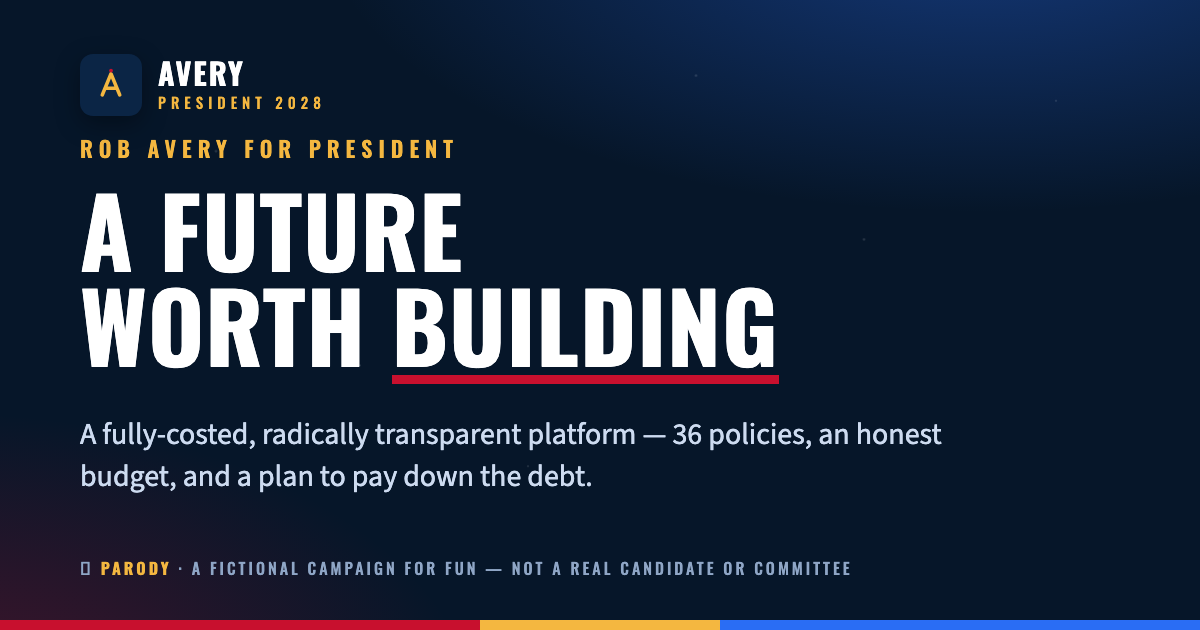
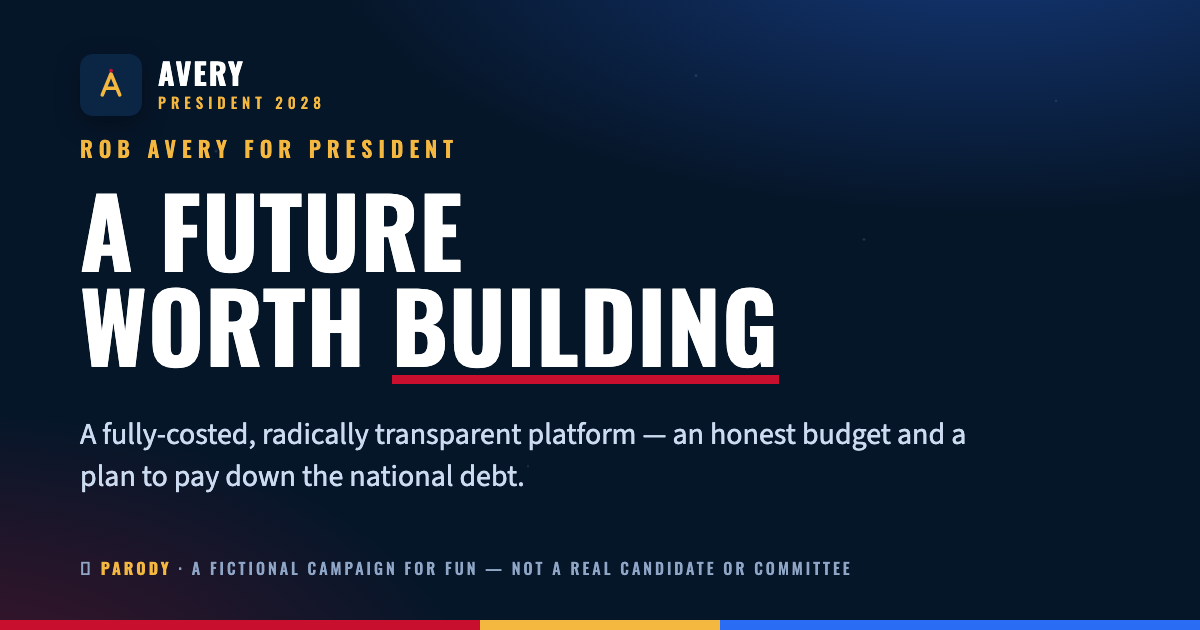
Add Waste & Recycling EPA policy; infra state-by-state delivery; de-number stale counts
- New policy: Refocus the EPA on Waste & Recycling — producer responsibility,
  reuse-before-recycle, working recycling/composting, right-to-repair, ocean
  cleanup. Neutral cost: program funded by producer-responsibility fees, so the
  +$278B surplus is unchanged. Now 37 policies.
- Infrastructure: add state-by-state coordination — federal funding & standards,
  state/local delivery, shared scoreboard.
- Fix stale hardcoded numbers: '23 policies' and a '+$0.6T' surplus on the home
  page (now +$278B), and de-number the meta/OG so counts can't drift again.

Changed region(s): [[0.0617, 0.7238, 0.4933, 0.7841], [0.555, 0.6635, 0.8017, 0.7238]]

diff --git a/data/policies.js b/data/policies.js
@@ -1201,6 +1201,7 @@ window.PLATFORM = {
       cost: 150, costType: "spend", costNote: "roads & bridges, water systems & lead pipes, transit & ports, climate resilience",
       lead: "Crumbling roads, century-old water pipes, and bottlenecked ports are a hidden tax on everyone. We rebuild the physical backbone of the country — fixing what's broken first, getting the lead out of the water, and building it to withstand the storms that are already here.",
       plan: [
+        { b: "Partner state by state.", t: "Work directly with each state to plan, coordinate, and manage projects — federal funding and standards, state and local delivery — so the money goes where each state actually needs it, not where Washington guesses from afar." },
         { b: "Fix what's broken.", t: "Repair the worst roads and bridges before chasing new ribbon-cuttings." },
         { b: "Get the lead out.", t: "Replace every lead water pipe and modernize aging water systems." },
         { b: "Move people and goods.", t: "Modern transit, ports, and freight that cut congestion and lower prices." },
@@ -1208,6 +1209,7 @@ window.PLATFORM = {
       ],
       detail: [
         { h: "A tax you already pay", p: "Bad roads, water-main breaks, and delays cost households thousands a year. Fixing them is effectively a raise." },
+        { h: "State by state, not top-down", p: "Each state co-owns the plan: we set national standards and put up federal dollars, but states and localities pick the projects and run delivery, with a shared scoreboard so we can see what's getting built and what it costs. Local knowledge plans better than a distant agency." },
         { h: "Fix-it-first", p: "Maintaining what we have is the highest-return, least-glamorous spending there is — and far cheaper than waiting for it to fail." },
         { h: "Built here", p: "American materials and well-paid labor, with real oversight to keep costs in line." },
       ],
@@ -1283,6 +1285,42 @@ window.PLATFORM = {
           { c: "Can this even be done?", r: "Likely through a constitutional amendment — hard by design — but justice term limits poll well across party lines, which makes it a fight worth leading." },
         ],
         response: "A lifetime seat decided by the timing of a funeral is no way to run the highest court in the land. Fixed terms, one appointment per president, an odd number of seats, and real ethics — a Court that answers to the Constitution and the country, not to luck and partisanship.",
+      },
+    },
+    {
+      id: "waste", cat: "future", icon: "♻",
+      title: "Refocus the EPA on Waste & Recycling", tagline: "Make recycling real, make reuse the default, stop drowning in our own trash.",
+      cost: 0, costType: "neutral", costNote: "refocus the existing EPA + recycling/reuse infrastructure, funded by producer-responsibility fees — the polluter pays",
+      lead: "America is the world's biggest trash producer, and our recycling system is half-broken: most plastic is never recycled, and what we can't bury we ship overseas or watch wash into the ocean. We refocus the EPA around one goal — waste as little as possible. Make producers responsible for what they sell, make reuse the default, and make recycling actually work — paid for by the companies that create the packaging, not the families throwing it away.",
+      plan: [
+        { b: "Refocus the EPA's mission.", t: "Reorient the agency around cutting waste at the source — driving down what we landfill, burn, and dump in the ocean — with recycling and reuse as the default, not an afterthought. We point an agency we already have at the problem instead of building a new one." },
+        { b: "Make producers responsible.", t: "Companies that make the packaging pay to collect and recycle it. That puts the cost on the people who design throwaway products — and rewards the ones who design for reuse." },
+        { b: "Reuse before recycle.", t: "Prioritize reusable and refillable systems over single-use: standardized containers, deposit-return, and a phase-down of the worst single-use plastics. A bottle reused 50 times beats 50 'recyclable' ones that mostly aren't." },
+        { b: "Make recycling & composting actually work.", t: "National standards so a container recyclable in one state is recyclable in all of them, real composting for food waste (our single biggest landfilled material), and an end to exporting our trash overseas." },
+        { b: "Make things last.", t: "Right-to-repair, so electronics and appliances can be fixed instead of tossed — cutting the fastest-growing waste stream there is." },
+        { b: "Protect the oceans.", t: "Stop plastic at the source and fund cleanup of the rivers, coasts, and waters where our waste ends up." },
+      ],
+      detail: [
+        { h: "The polluter pays", p: "Today, cities and taxpayers foot the bill to dispose of packaging that companies chose to make throwaway. Producer responsibility flips that: the fee funds the whole system — keeping it roughly budget-neutral — and gives companies a real reason to use less and design for reuse." },
+        { h: "Reduce and reuse beat recycle", p: "Recycling is the last resort, not the first. We build the deposit-return and refill systems that make reuse easy, so we throw away less in the first place instead of pretending a blue bin fixes everything." },
+        { h: "Why refactor the EPA", p: "We don't need a new agency — we need the one we have to treat waste like the priority it's become. Refocusing the EPA's mission and metrics around waste reduction is faster, cheaper, and more accountable than standing up something new." },
+      ],
+      qa: [
+        { q: "Isn't recycling already a thing — why isn't it working?", a: "Because most packaging was never designed to be recycled, and the companies making it bear none of the cost. We fix both: producers pay, and national standards mean a container recyclable in one place is recyclable everywhere." },
+        { q: "Won't this raise prices on everyday goods?", a: "Producer fees are small per item, and they're offset by ending the taxpayer-funded cleanup we already pay for through city budgets — plus reusable systems save money over time. The cheap throwaway price was never the real price; we just paid it later, in landfills and oceans." },
+      ],
+      aisle: {
+        rep: [
+          { c: "This is more federal red tape on business.", r: "It's the opposite of a subsidy: it makes companies pay for the mess their packaging creates instead of dumping the cost on your town's budget. Build throwaway junk, pay for it; build reusable, save. Producer-responsibility laws already exist in plenty of red and blue states — this is accountability and honest pricing, not red tape." },
+        ],
+        dem: [
+          { c: "Does it tackle plastic and environmental justice?", r: "Yes — it cuts plastic at the source, funds ocean and waterway cleanup, and (paired with our communities plan) keeps new waste facilities from being dumped on the same overburdened neighborhoods again." },
+        ],
+        ind: [
+          { c: "Is recycling even worth it, or is it all a scam?", r: "A lot of today's recycling is theater — which is exactly what we fix. By making producers pay and putting reuse first, we stop pretending and build a system where what you sort actually gets used again." },
+          { c: "Why refactor the EPA instead of making a new agency?", r: "Because a new bureaucracy is slow and expensive. The EPA already exists; we point its mission and metrics at waste reduction — faster, cheaper, and accountable." },
+        ],
+        response: "We built a throwaway economy and called the bill someone else's problem — until it's overflowing our landfills and washing up on our beaches. Refocus the EPA on using less and reusing more, make the companies that profit from the packaging pay to deal with it, and we stop drowning in our own trash.",
       },
     },
 
@@ -1495,6 +1533,10 @@ window.PLATFORM = {
     ],
     "supreme-court": [
       { label: "A constitutional / structural reform — no federal spending", amt: 0 },
+    ],
+    waste: [
+      { label: "Recycling, composting & reuse infrastructure + ocean cleanup", amt: 20 },
+      { label: "Fully offset by producer-responsibility fees on packaging", amt: -20 },
     ],
   },
 

diff --git a/index.html b/index.html
@@ -5,7 +5,7 @@
   <meta name="viewport" content="width=device-width, initial-scale=1.0" />
   <meta name="theme-color" content="#061629" />
   <title>Rob Avery for President 2028 — A Future Worth Building</title>
-  <meta name="description" content="A fully-costed, radically transparent (and entirely fictional) 2028 presidential platform: 36 policies, an honest budget, a plan to pay down the national debt, and tools to check the math yourself." />
+  <meta name="description" content="A fully-costed, radically transparent (and entirely fictional) 2028 presidential platform: dozens of fully-costed policies, an honest budget, a plan to pay down the national debt, and tools to check the math yourself." />
 
   <link rel="icon" href="assets/favicon.svg" type="image/svg+xml" />
   <link rel="preconnect" href="https://fonts.googleapis.com" />
@@ -18,7 +18,7 @@
   <meta property="og:type" content="website" />
   <meta property="og:site_name" content="Rob Avery for President 2028" />
   <meta property="og:title" content="Rob Avery for President 2028 — A Future Worth Building" />
-  <meta property="og:description" content="A fully-costed, radically transparent (and entirely fictional) 2028 presidential platform: 36 policies, an honest budget, a plan to pay down the national debt, and tools to check the math yourself." />
+  <meta property="og:description" content="A fully-costed, radically transparent (and entirely fictional) 2028 presidential platform: dozens of fully-costed policies, an honest budget, a plan to pay down the national debt, and tools to check the math yourself." />
   <meta property="og:url" content="https://avery-2028-campaign.pages.dev/" />
   <meta property="og:image" content="https://avery-2028-campaign.pages.dev/assets/og.png" />
   <meta property="og:image:width" content="1200" />
@@ -26,9 +26,9 @@
   <meta property="og:locale" content="en_US" />
   <meta name="twitter:card" content="summary_large_image" />
   <meta name="twitter:title" content="Rob Avery for President 2028 — A Future Worth Building" />
-  <meta name="twitter:description" content="A fully-costed, radically transparent (and entirely fictional) 2028 presidential platform: 36 policies, an honest budget, a plan to pay down the national debt, and tools to check the math yourself." />
+  <meta name="twitter:description" content="A fully-costed, radically transparent (and entirely fictional) 2028 presidential platform: dozens of fully-costed policies, an honest budget, a plan to pay down the national debt, and tools to check the math yourself." />
   <meta name="twitter:image" content="https://avery-2028-campaign.pages.dev/assets/og.png" />
-  <script type="application/ld+json">{"@context":"https://schema.org","@graph":[{"@type":"WebSite","name":"Rob Avery for President 2028","url":"https://avery-2028-campaign.pages.dev/","description":"A fictional, for-fun 2028 presidential campaign — a fully-costed, transparent policy platform.","disambiguatingDescription":"Parody / satire. Not a real candidate, committee, or party."},{"@type":"WebPage","name":"Rob Avery for President 2028 — A Future Worth Building","url":"https://avery-2028-campaign.pages.dev/","description":"A fully-costed, radically transparent (and entirely fictional) 2028 presidential platform: 36 policies, an honest budget, a plan to pay down the national debt, and tools to check the math yourself.","isPartOf":{"@type":"WebSite","name":"Rob Avery for President 2028","url":"https://avery-2028-campaign.pages.dev/"}}]}</script>
+  <script type="application/ld+json">{"@context":"https://schema.org","@graph":[{"@type":"WebSite","name":"Rob Avery for President 2028","url":"https://avery-2028-campaign.pages.dev/","description":"A fictional, for-fun 2028 presidential campaign — a fully-costed, transparent policy platform.","disambiguatingDescription":"Parody / satire. Not a real candidate, committee, or party."},{"@type":"WebPage","name":"Rob Avery for President 2028 — A Future Worth Building","url":"https://avery-2028-campaign.pages.dev/","description":"A fully-costed, radically transparent (and entirely fictional) 2028 presidential platform: dozens of fully-costed policies, an honest budget, a plan to pay down the national debt, and tools to check the math yourself.","isPartOf":{"@type":"WebSite","name":"Rob Avery for President 2028","url":"https://avery-2028-campaign.pages.dev/"}}]}</script>
   <!-- SEO:end -->
 </head>
 <body data-page="home">
@@ -74,7 +74,7 @@
       <div class="container">
         <div class="center" style="max-width:700px">
           <span class="eyebrow" data-reveal>Where Rob Stands</span>
-          <h2 class="section-title" data-reveal>23 policies, two simple buckets</h2>
+          <h2 class="section-title" data-reveal>Every policy, two simple buckets</h2>
           <p class="section-lead" data-reveal>Every plank in plain language, with a price tag attached — grouped into what we <strong>spend</strong> and how we raise the <strong>revenue</strong> to pay for it (with a surplus left over for the deficit).</p>
         </div>
         <div class="card-grid" style="margin-top:46px">
@@ -117,7 +117,7 @@
           <div data-reveal><span class="stat-num" data-count="330" data-suffix="M">0</span><span class="stat-label">Americans covered by universal healthcare</span></div>
           <div data-reveal><span class="stat-num" data-count="5" data-suffix="M">0</span><span class="stat-label">new homes, plus rent you can actually afford</span></div>
           <div data-reveal><span class="stat-num" data-count="0" data-prefix="$">0</span><span class="stat-label">tuition for trade &amp; community college</span></div>
-          <div data-reveal><span class="stat-num" data-count="0.6" data-prefix="+$" data-suffix="T">0</span><span class="stat-label">annual surplus — sent straight to the deficit</span></div>
+          <div data-reveal><span class="stat-num" data-count="278" data-prefix="+$" data-suffix="B">0</span><span class="stat-label">annual surplus — sent straight to the deficit</span></div>
         </div>
       </div>
     </section>

diff --git a/issues.html b/issues.html
@@ -4,7 +4,7 @@
   <meta charset="UTF-8" />
   <meta name="viewport" content="width=device-width, initial-scale=1.0" />
   <meta name="theme-color" content="#061629" />
-  <title>The Issues — 36 Fully-Costed Policies | Avery 2028</title>
+  <title>The Issues — Every Policy, Fully Costed | Avery 2028</title>
   <meta name="description" content="Every policy in the Avery platform, grouped into spending and revenue — each with full details, common concerns answered, across-the-aisle rebuttals, and a transparent cost breakdown." />
   <link rel="icon" href="assets/favicon.svg" type="image/svg+xml" />
   <link rel="preconnect" href="https://fonts.googleapis.com" />
@@ -17,7 +17,7 @@
   <meta name="robots" content="index,follow" />
   <meta property="og:type" content="website" />
   <meta property="og:site_name" content="Rob Avery for President 2028" />
-  <meta property="og:title" content="The Issues — 36 Fully-Costed Policies | Avery 2028" />
+  <meta property="og:title" content="The Issues — Every Policy, Fully Costed | Avery 2028" />
   <meta property="og:description" content="Every policy in the Avery platform, grouped into spending and revenue — each with full details, common concerns answered, across-the-aisle rebuttals, and a transparent cost breakdown." />
   <meta property="og:url" content="https://avery-2028-campaign.pages.dev/issues.html" />
   <meta property="og:image" content="https://avery-2028-campaign.pages.dev/assets/og.png" />
@@ -25,10 +25,10 @@
   <meta property="og:image:height" content="630" />
   <meta property="og:locale" content="en_US" />
   <meta name="twitter:card" content="summary_large_image" />
-  <meta name="twitter:title" content="The Issues — 36 Fully-Costed Policies | Avery 2028" />
+  <meta name="twitter:title" content="The Issues — Every Policy, Fully Costed | Avery 2028" />
   <meta name="twitter:description" content="Every policy in the Avery platform, grouped into spending and revenue — each with full details, common concerns answered, across-the-aisle rebuttals, and a transparent cost breakdown." />
   <meta name="twitter:image" content="https://avery-2028-campaign.pages.dev/assets/og.png" />
-  <script type="application/ld+json">{"@context":"https://schema.org","@graph":[{"@type":"WebSite","name":"Rob Avery for President 2028","url":"https://avery-2028-campaign.pages.dev/","description":"A fictional, for-fun 2028 presidential campaign — a fully-costed, transparent policy platform.","disambiguatingDescription":"Parody / satire. Not a real candidate, committee, or party."},{"@type":"WebPage","name":"The Issues — 36 Fully-Costed Policies | Avery 2028","url":"https://avery-2028-campaign.pages.dev/issues.html","description":"Every policy in the Avery platform, grouped into spending and revenue — each with full details, common concerns answered, across-the-aisle rebuttals, and a transparent cost breakdown.","isPartOf":{"@type":"WebSite","name":"Rob Avery for President 2028","url":"https://avery-2028-campaign.pages.dev/"}}]}</script>
+  <script type="application/ld+json">{"@context":"https://schema.org","@graph":[{"@type":"WebSite","name":"Rob Avery for President 2028","url":"https://avery-2028-campaign.pages.dev/","description":"A fictional, for-fun 2028 presidential campaign — a fully-costed, transparent policy platform.","disambiguatingDescription":"Parody / satire. Not a real candidate, committee, or party."},{"@type":"WebPage","name":"The Issues — Every Policy, Fully Costed | Avery 2028","url":"https://avery-2028-campaign.pages.dev/issues.html","description":"Every policy in the Avery platform, grouped into spending and revenue — each with full details, common concerns answered, across-the-aisle rebuttals, and a transparent cost breakdown.","isPartOf":{"@type":"WebSite","name":"Rob Avery for President 2028","url":"https://avery-2028-campaign.pages.dev/"}}]}</script>
   <!-- SEO:end -->
 </head>
 <body data-page="issues">
